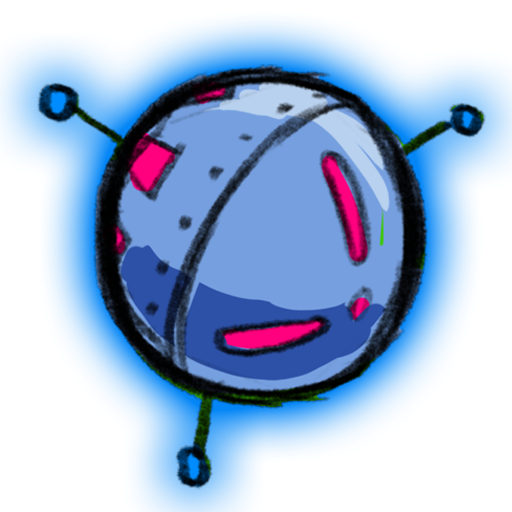
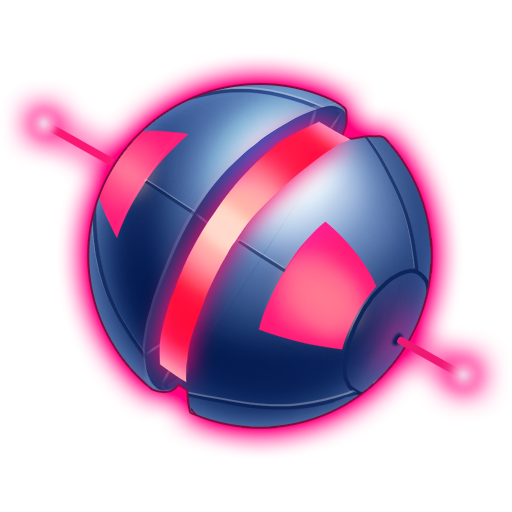
LightSpeed: update powerup and particles assets
Use final assets for powerups and related particles.
Added particle effects to powerups.

https://phabricator.endlessm.com/T26030

diff --git a/com.endlessm.LightSpeed/app/ship.js b/com.endlessm.LightSpeed/app/ship.js
@@ -7,6 +7,9 @@
 
 /* exported Ship */
 
+const UPGRADE_COLOR = 0x6dff36;
+const INVULNERABLE_COLOR = 0xffea5f;
+
 class Ship extends Phaser.Physics.Arcade.Sprite {
     constructor(scene, type, x, y) {
         super(scene, x, y);
@@ -29,13 +32,53 @@ class Ship extends Phaser.Physics.Arcade.Sprite {
         /* Glow */
         this.glow = scene.add.image(x, y, 'ship-glow');
         this.glow.visible = false;
-        this.glow.depth = 101;
+        this.glow.depth = 99;
 
         /* Attraction zone */
         this.attractionZone = scene.add.zone(x, y);
         scene.physics.world.enable(this.attractionZone);
 
+        /* Particles */
+        this.particles = {};
+        var particleShape = new Phaser.Geom.Circle(0, 0, 200);
+
+        /* Stars */
+        this.particles.stars = scene.add.particles('star');
+        this.particles.stars.emitter = this.particles.stars.createEmitter({
+            emitZone: { type: 'random', source: particleShape },
+            scale: { start: 0.8, end: 0.2 },
+            alpha: { start: 1, end: 0 },
+            lifespan: 800,
+        }).startFollow(this);
+        this.particles.stars.emitter.stop();
+
+        /* Dots */
+        this.particles.dots = scene.add.particles('dot');
+        this.particles.dots.emitter = this.particles.dots.createEmitter({
+            emitZone: { type: 'random', source: particleShape },
+            scale: { start: 0.8, end: 0.2 },
+            alpha: { start: 1, end: 0 },
+            lifespan: 800   ,
+        }).startFollow(this);
+        this.particles.dots.emitter.stop();
+
+        /* Finaly set ship type */
         this.setType(type);
+
+        /* Cleanup on destroy event */
+        this.on('destroy', () => {
+            Object.keys(this.particles).forEach(prop => {
+                this.particles[prop].emitter.stop();
+                this.particles[prop].destroy();
+            });
+
+            Object.keys(this._timers).forEach(prop => {
+                this._timers[prop].destroy();
+            });
+
+            this.attractionZone.destroy();
+            this.glow.destroy();
+        }, this);
     }
 
     preUpdate() {
@@ -159,12 +202,14 @@ class Ship extends Phaser.Physics.Arcade.Sprite {
 
     enableUpgrade(color) {
         this.enableGlow(color);
+        this.particles.dots.emitter.start();
         Sounds.play('lightspeed/powerup/upgrade');
         Sounds.playLoop('lightspeed/bg/powerup/upgrade');
     }
 
     disableUpgrade() {
         this.disableGlow();
+        this.particles.dots.emitter.stop();
         Sounds.stop('lightspeed/bg/powerup/upgrade');
     }
 
@@ -185,7 +230,7 @@ class Ship extends Phaser.Physics.Arcade.Sprite {
             ease: 'Elastic',
             easeParams: [1.4, 0.6],
         });
-        this.enableUpgrade(0x6dff36);
+        this.enableUpgrade(UPGRADE_COLOR);
 
         /* Restore ship size */
         this._timers.shrink = this.scene.time.delayedCall(delay, () => {
@@ -214,7 +259,7 @@ class Ship extends Phaser.Physics.Arcade.Sprite {
 
         const shipScale = this.scene.params.shipSize / 100;
         this.attractionZone.setScale(shipScale * scale);
-        this.enableUpgrade(0x6dff36);
+        this.enableUpgrade(UPGRADE_COLOR);
 
         /* Restore ship attraction size */
         this._timers.attraction = this.scene.time.delayedCall(delay, () => {
@@ -234,7 +279,7 @@ class Ship extends Phaser.Physics.Arcade.Sprite {
         }
 
         this.engineBoost = boost;
-        this.enableUpgrade(0x6dff36);
+        this.enableUpgrade(UPGRADE_COLOR);
 
         /* Restore engine boost */
         this._timers.engine = this.scene.time.delayedCall(delay, () => {
@@ -257,10 +302,12 @@ class Ship extends Phaser.Physics.Arcade.Sprite {
         Sounds.playLoop('lightspeed/bg/powerup/invulnerable');
 
         this.isInvulnerable = true;
-        this.enableGlow(0xffea5f);
+        this.enableGlow(INVULNERABLE_COLOR);
+        this.particles.stars.emitter.start();
 
         this._timers.invulnerable = this.scene.time.delayedCall(delay, () => {
             this.isInvulnerable = false;
+            this.particles.stars.emitter.stop();
             this.disableGlow();
             Sounds.stop('lightspeed/bg/powerup/invulnerable');
             delete this._timers.invulnerable;

diff --git a/com.endlessm.LightSpeed/app/levelScene.js b/com.endlessm.LightSpeed/app/levelScene.js
@@ -78,15 +78,15 @@ class LevelScene extends Phaser.Scene {
     preload() {
         /* Common assets */
         this.load.image('background', 'assets/background.jpg');
-        this.load.image('particle', 'assets/particle.png');
         this.load.image('astronaut', 'assets/astronaut.png');
-        this.load.image('particle', 'assets/particle.png');
+        this.load.image('particle', 'assets/particles/particle.png');
+        this.load.image('star', 'assets/particles/star.png');
+        this.load.image('dot', 'assets/particles/dot.png');
+        this.load.image('blowup-particle', 'assets/particles/blowup.png');
         this.load.atlas('explosion-particles', 'assets/atlas/explosion-particles.png',
             'assets/atlas/explosion-particles.json');
         this.load.atlas('confetti-particles', 'assets/atlas/confetti-particles.png',
             'assets/atlas/confetti-particles.json');
-        this.load.atlas('stars-particles', 'assets/atlas/stars-particles.png',
-            'assets/atlas/stars-particles.json');
 
         /* Ship assets */
         for (const ship of shipTypes)
@@ -247,6 +247,18 @@ class LevelScene extends Phaser.Scene {
         });
         this.particles.explosion.stop();
         explosion.depth = 101;
+
+        /* Blowup Explosion */
+        var blowup = this.add.particles('blowup-particle');
+        this.particles.blowup = blowup.createEmitter({
+            speed: {min: -800, max: 800},
+            angle: {min: 0, max: 360},
+            scale: {start: 2, end: 0},
+            blendMode: 'SCREEN',
+            lifespan: 800,
+        });
+        this.particles.blowup.stop();
+        blowup.depth = 101;
 
         /* Confetti */
         var confetti = this.add.particles('confetti-particles');
@@ -611,9 +623,8 @@ class LevelScene extends Phaser.Scene {
             obj.setScale(0.25);
 
             if (retval === 'invulnerable') {
-                obj.particles = this.add.particles('stars-particles');
+                obj.particles = this.add.particles('star');
                 obj.emitter = obj.particles.createEmitter({
-                    frame: ['stars-p1', 'stars-p2', 'stars-p3', 'stars-p4', 'stars-p5'],
                     speed: 100,
                     angle: {min: 0, max: 360},
                     scale: {start: 1, end: 0},
@@ -691,7 +702,7 @@ class LevelScene extends Phaser.Scene {
         /* Make ship explode! */
         this.particles.explosion.explode(768, (this.ship.x + enemy.x) / 2,
             (this.ship.y + enemy.y) / 2);
-        this.ship.visible = false;
+        this.ship.destroy();
     }
 
     onShipAstronautOverlap(attractionZone, astronaut) {
@@ -739,7 +750,7 @@ class LevelScene extends Phaser.Scene {
             /* Iterate over enemies */
             const children = this.enemies[o].getChildren();
             for (const obj of children)
-                this.particles.explosion.explode(768, obj.x, obj.y);
+                this.particles.blowup.explode(768, obj.x, obj.y);
 
             this.enemies[o].clear(true, true);
         }

diff --git a/com.endlessm.LightSpeed/app/titleScene.js b/com.endlessm.LightSpeed/app/titleScene.js
@@ -19,7 +19,7 @@ class TitleScene extends Phaser.Scene {
         /* Images */
         this.load.image('background', 'assets/background.jpg');
         this.load.image('logo', 'assets/logo.png');
-        this.load.image('particle', 'assets/particle.png');
+        this.load.image('particle', 'assets/particles/particle.png');
         this.load.image('astronaut', 'assets/astronaut.png');
         this.load.image('tch', 'assets/tch.png');
 
